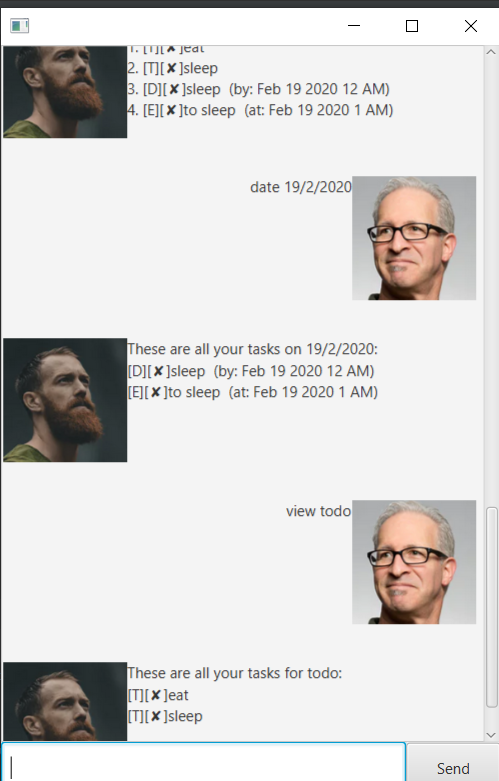
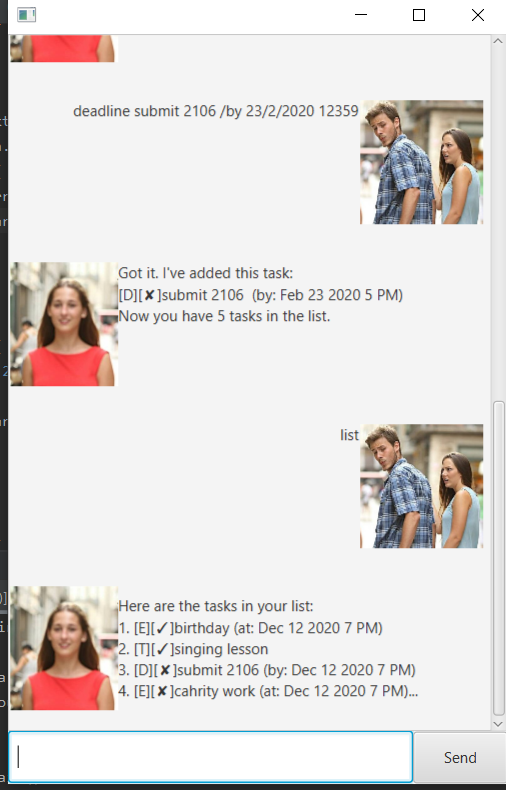
- Change userImage and DukeImage

diff --git a/src/main/java/Storage.java b/src/main/java/Storage.java
@@ -31,27 +31,25 @@ public class Storage {
         Scanner s = new Scanner(f);
         while (s.hasNextLine()) {
             String instruction = s.nextLine();
-            System.out.println(instruction);
-            String[] arr = instruction.split(" | ");
-            if (arr[0].equals("E")) {
-                Event e = new Event(arr[4], arr[6] + " " + arr[7]);
-                System.out.println(e);
-                if (Integer.parseInt(arr[2]) == 1) {
+            String[] arr = instruction.split("\\|");
+            if (arr[0].equals("E ")) {
+                Event e = new Event(arr[2].trim(), arr[3]);
+                if (Integer.parseInt(arr[1].trim()) == 1) {
                     e.markAsDone();
                 }
                 doneTasks.add(e);
             }
-            if (arr[0].equals("T")) {
-                Todo t = new Todo(arr[4]);
-                if (Integer.parseInt(arr[2]) == 1) {
-                    System.out.println(t);
+            if (arr[0].equals("T ")) {
+                Todo t = new Todo(arr[2].trim());
+                System.out.println(t);
+                if (Integer.parseInt(arr[1].trim()) == 1) {
                     t.markAsDone();
                 }
                 doneTasks.add(t);
             }
-            if (arr[0].equals("D")) {
-                Deadline d = new Deadline(arr[4], arr[6] + " " + arr[7]);
-                if (Integer.parseInt(arr[2]) == 1) {
+            if (arr[0].equals("D ")) {
+                Deadline d = new Deadline(arr[2].trim(), arr[3]);
+                if (Integer.parseInt(arr[1].trim()) == 1) {
                     d.markAsDone();
                 }
                 doneTasks.add(d);
@@ -85,14 +83,14 @@ public class Storage {
                 if (t instanceof  Deadline) {
                     Deadline d = (Deadline) t;
                     tasks += "D | " + t.getIsTaskDone() + " | "
-                            + t.getDescription() + " | "
+                            + t.getDescription() + "| "
                             + d.getBy() + System.lineSeparator();
                 }
 
                 if (t instanceof Event) {
                     Event e = (Event) t;
                     tasks += "E | " + t.getIsTaskDone() + " | "
-                            + t.getDescription() + " | "
+                            + t.getDescription() + "| "
                             + e.getAt() + System.lineSeparator();
                 }
             }

diff --git a/src/main/java/MainWindow.java b/src/main/java/MainWindow.java
@@ -20,8 +20,8 @@ public class MainWindow extends AnchorPane {
 
     private Duke duke;
 
-    private Image userImage = new Image(this.getClass().getResourceAsStream("/images/DaUser.png"));
-    private Image dukeImage = new Image(this.getClass().getResourceAsStream("/images/DaDuke.png"));
+    private Image userImage = new Image(this.getClass().getResourceAsStream("/images/distracted.png"));
+    private Image dukeImage = new Image(this.getClass().getResourceAsStream("/images/redFemale.png"));
 
     @FXML
     public void initialize() {
